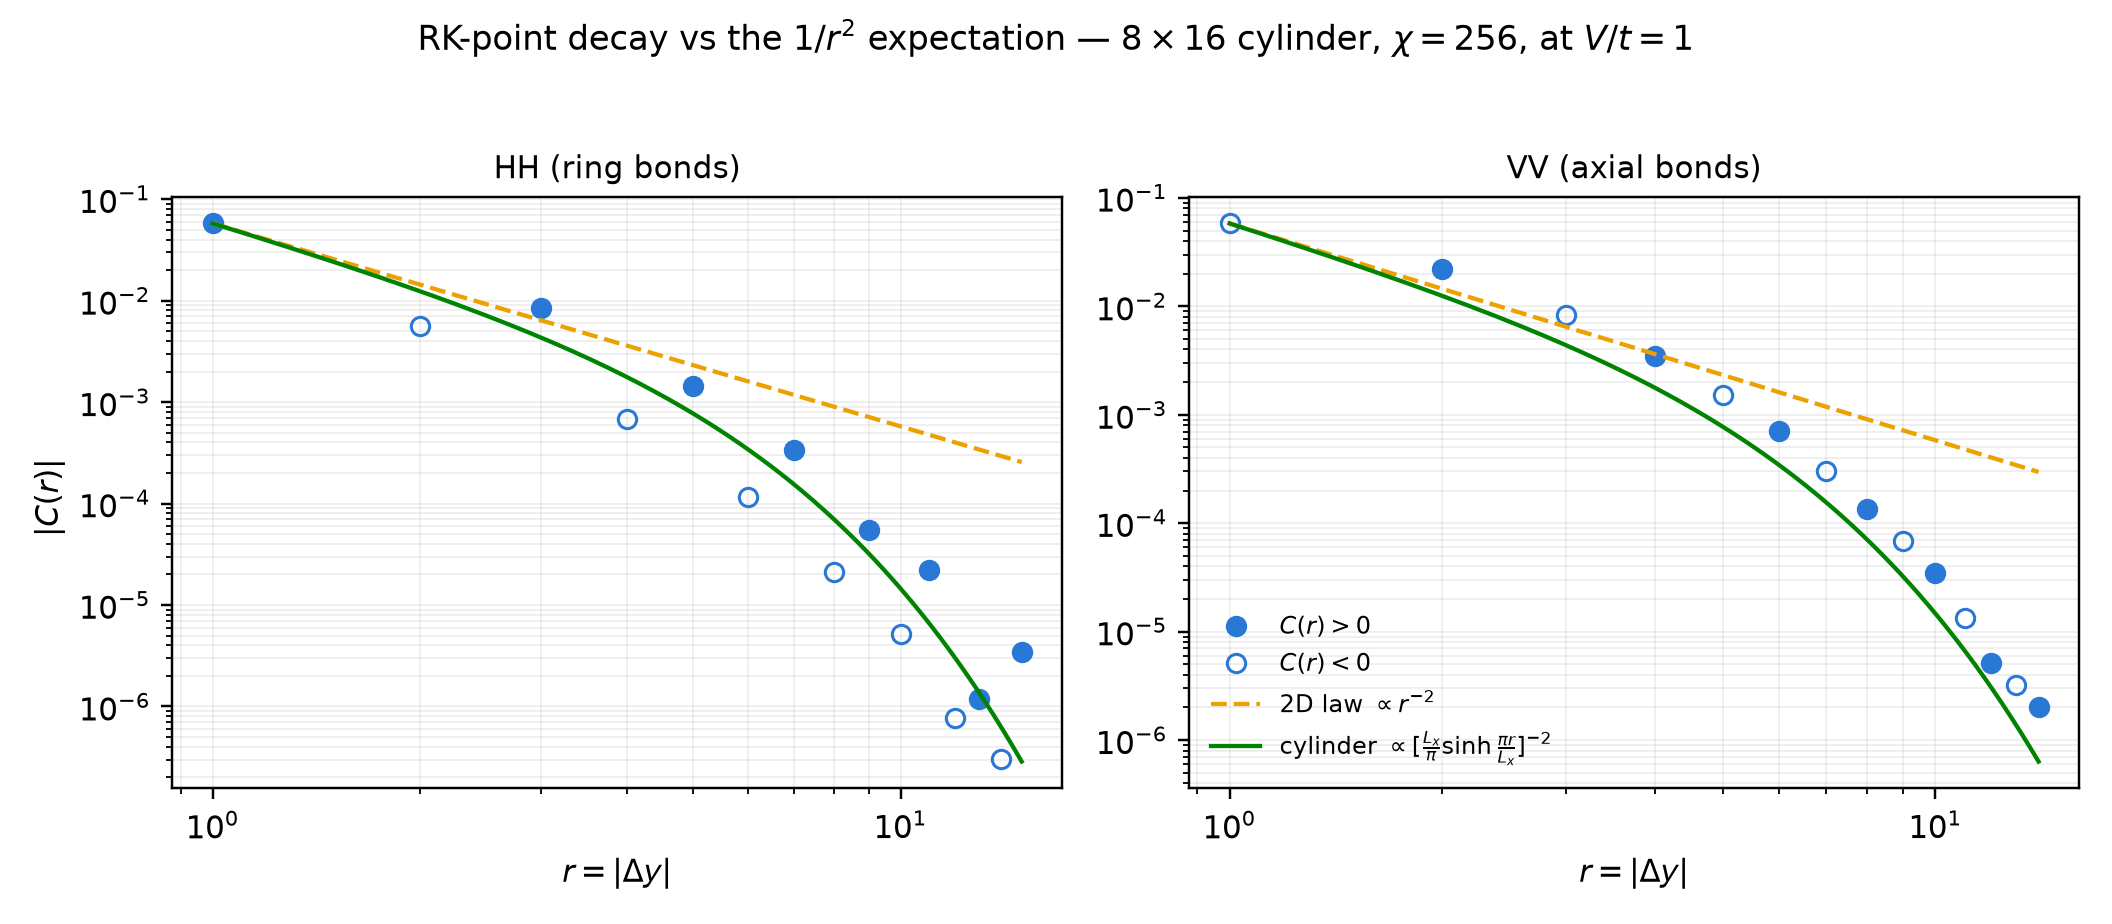
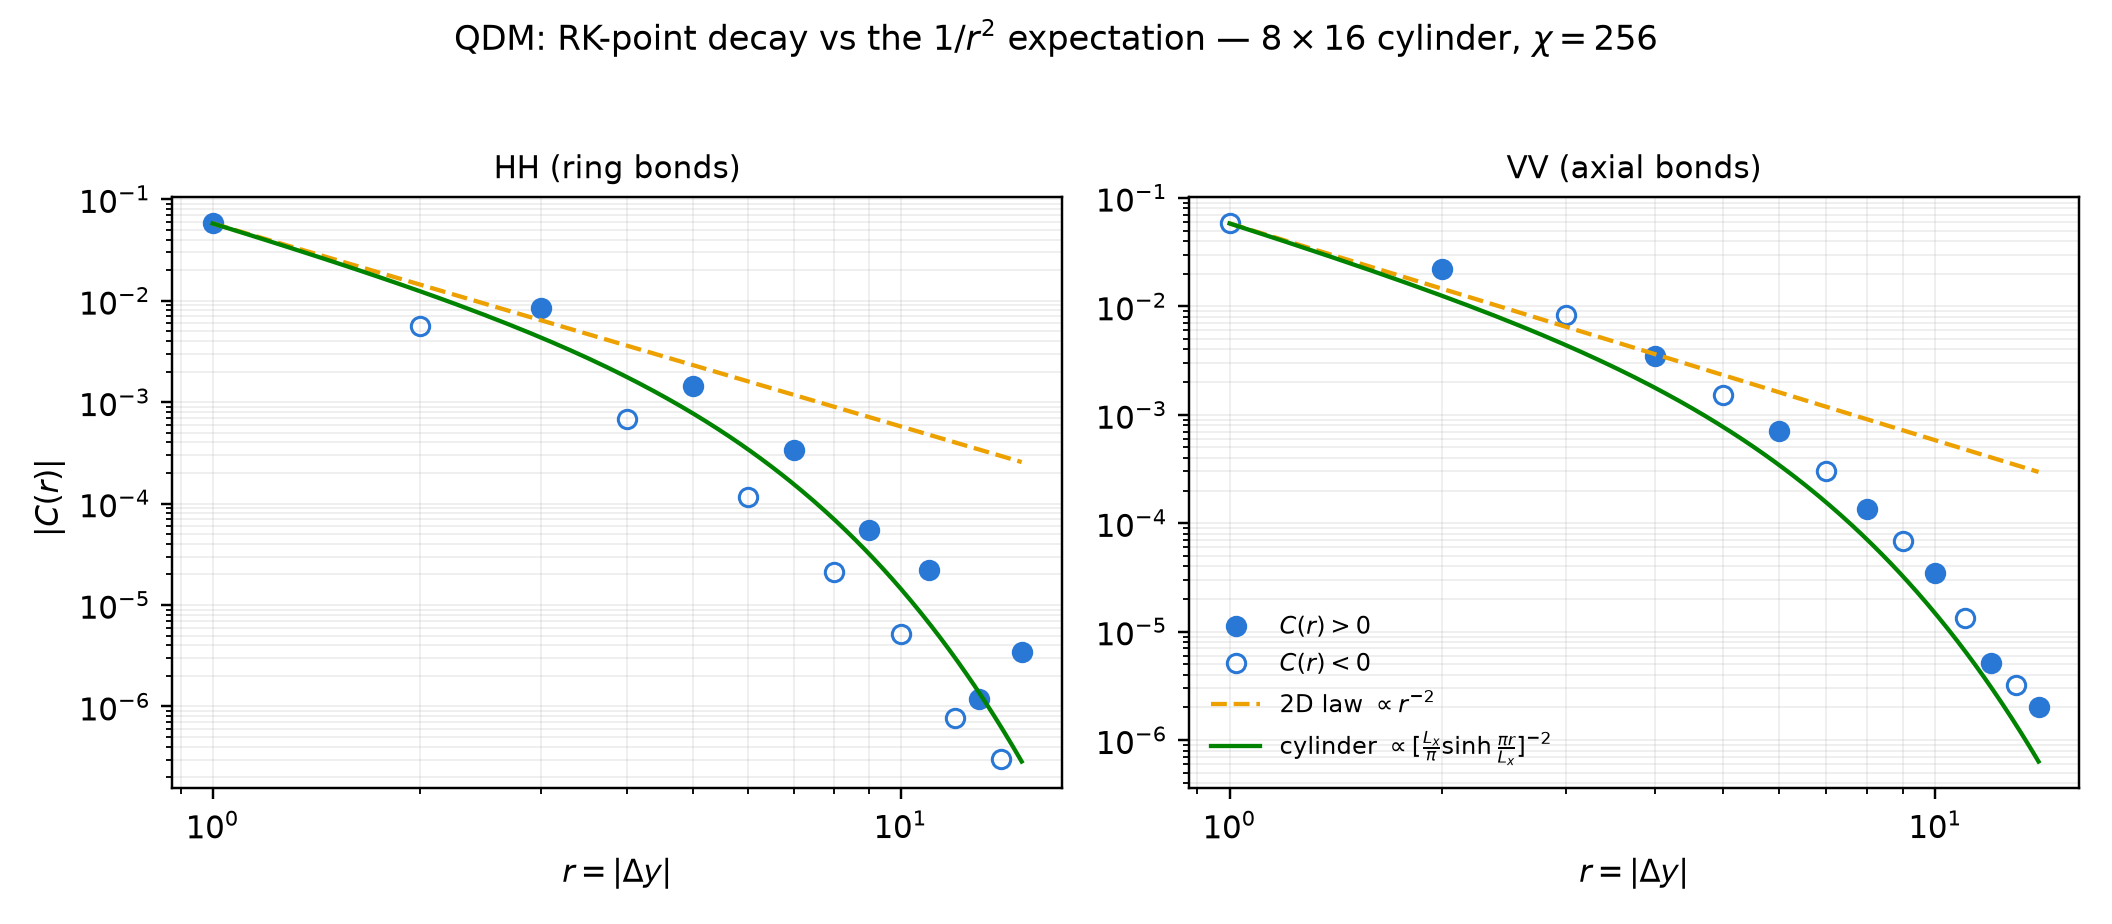
improve plot

Changed region(s): [[0.1875, 0.0303, 0.8125, 0.0606]]

diff --git a/examples/plot_qdm_pd.py b/examples/plot_qdm_pd.py
@@ -67,7 +67,11 @@ def _size_from_dir(run_dir):
 
 
 def plot(run, path, Vc=1.0, size=None, title=None,
-         crit_label=None):
+         crit_label=None, xlabel=r'$V/t$', ylabelL='order parameter',
+         ylabelR='bipartite entanglement entropy', density=None):
+    """`density` (optional): occupation curve overlaid on the left panel.
+    Label/axis kwargs let model-specific callers (e.g. the Rydberg sweep,
+    which is in Delta/Omega) reuse the same figure; defaults are the QDM."""
     import matplotlib
     matplotlib.use('Agg')
     import matplotlib.pyplot as plt
@@ -89,12 +93,16 @@ def plot(run, path, Vc=1.0, size=None, title=None,
              ms=6, lw=1.5, label=r'$m_1^2$ columnar')
     axL.plot(V, m3, marker='s', ls='-', color='C3', mfc='white', mec='C3',
              ms=6, lw=1.5, label=r'$m_3^2$ staggered')
-    axL.axvline(Vc, ls=':', color='0.5', lw=1.2)
-    ymax = float(np.nanmax([m1.max(), m3.max()]))
-    axL.text(Vc, 0.55 * ymax, crit_label + '  ', rotation=90, va='center',
-             ha='right', color='0.45', fontsize=10)
-    axL.set_xlabel(r'$V/t$')
-    axL.set_ylabel('order parameter')
+    if density is not None:
+        axL.plot(V, density, ls=':', color='0.5', lw=1.5, label='density')
+    ymax = float(np.nanmax([m1.max(), m3.max()] +
+                           ([density.max()] if density is not None else [])))
+    if Vc is not None:
+        axL.axvline(Vc, ls=':', color='0.5', lw=1.2)
+        axL.text(Vc, 0.55 * ymax, crit_label + '  ', rotation=90, va='center',
+                 ha='right', color='0.45', fontsize=10)
+    axL.set_xlabel(xlabel)
+    axL.set_ylabel(ylabelL)
     axL.set_ylim(-0.03 * ymax, 1.05 * ymax)
     axL.tick_params(which='both', direction='in')
     axL.legend(loc='upper left')
@@ -102,7 +110,8 @@ def plot(run, path, Vc=1.0, size=None, title=None,
     # --- right: mid-chain entropy of the winning state + winner markers ---
     axR.plot(V, S, marker='D', ls='-', color='C2', mfc='white', mec='C2',
              ms=6, lw=1.5)
-    axR.axvline(Vc, ls=':', color='0.5', lw=1.2)
+    if Vc is not None:
+        axR.axvline(Vc, ls=':', color='0.5', lw=1.2)
     Smin, Smax = np.nanmin(S), np.nanmax(S)
     span = (Smax - Smin) or 1.0
     y0 = Smin - 0.14 * span                      # baseline for winner markers
@@ -111,8 +120,8 @@ def plot(run, path, Vc=1.0, size=None, title=None,
                 facecolors='none', edgecolors='0.4', label='winner: fwd')
     axR.scatter(V[bwd], np.full(bwd.sum(), y0), marker='s', s=42,
                 facecolors='none', edgecolors='0.4', label='winner: bwd')
-    axR.set_xlabel(r'$V/t$')
-    axR.set_ylabel('bipartite entanglement entropy')
+    axR.set_xlabel(xlabel)
+    axR.set_ylabel(ylabelR)
     axR.set_ylim(y0 - 0.06 * span, Smax + 0.10 * span)
     axR.tick_params(which='both', direction='in')
     axR.legend(loc='upper left')
